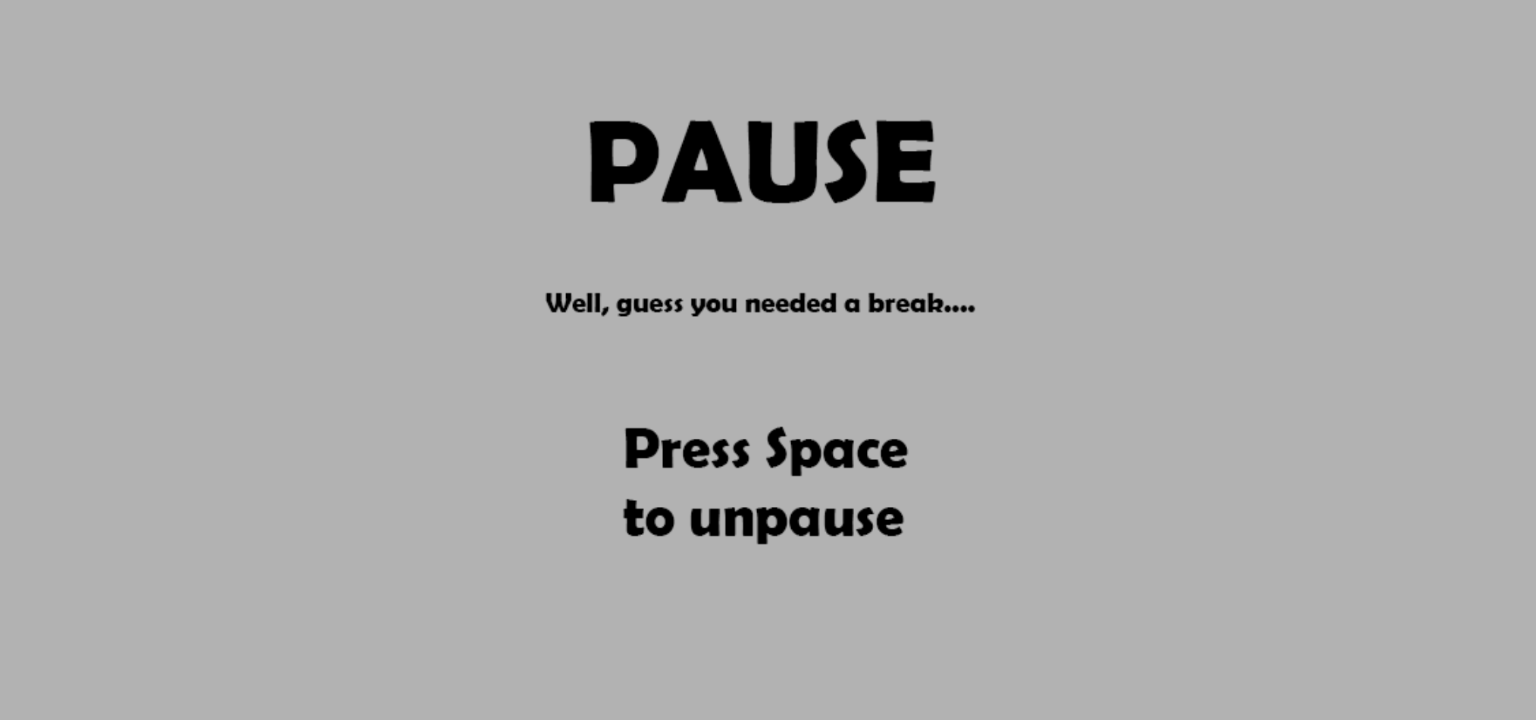
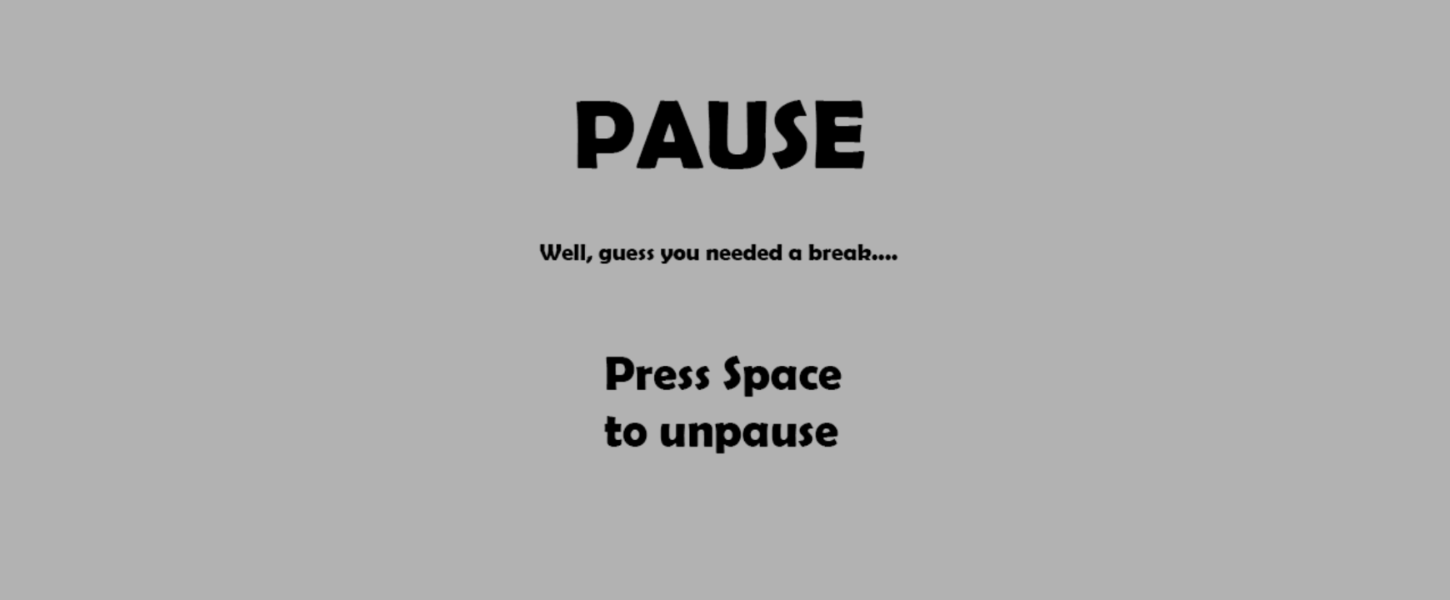
Add files via upload

diff --git a/sketch.js b/sketch.js
@@ -56,11 +56,11 @@ var logH, logHGroup;
 var hurtS;
 var pointUpS;
 var musicS;
-var lane1 = 76;
-var lane2 = 360;
-var lane3 = 654;
-var screenWidthH = width/2;
-var screenHeightH = height/2;
+var lane1 = 63;
+var lane2 = 300;
+var lane3 = 545;
+var screenWidthH = 1450/2;
+var screenHeightH = 600/2;
 
 
 function preload() {
@@ -103,49 +103,49 @@ function setup() {
   title = createSprite(screenWidthH, screenHeightH, 400, 400);
   title.addImage("titl", titleI);
 
-  aKey = createSprite(94, 240, 200, 200);
+  aKey = createSprite(91, 200, 200, 200);
   aKey.addImage("ake", aKeyI);
 
-  dKey = createSprite(298, 240, 200, 200);
+  dKey = createSprite(290, 200, 200, 200);
   dKey.addImage("dke", dKeyI);
 
   easyB = createSprite(screenWidthH, screenHeightH, 400, 400);
   easyB.addImage("eas", easyBI);
-  easyB.scale = 0.75;
+  easyB.scale = 0.55;
 
-  hardB = createSprite(screenWidthH, 600, 400, 400);
+  hardB = createSprite(screenWidthH, 500, 400, 400);
   hardB.addImage("har", hardBI);
-  hardB.scale = 0.75;
+  hardB.scale = 0.55;
 
-  mainMenu = createSprite(100,654, 200, 200);
+  mainMenu = createSprite(94,530, 200, 200);
   mainMenu.addImage("mai", mainMenuI);
   mainMenu.debug = true;
-  mainMenu.scale = 1.3;
+  mainMenu.scale = 1;
   mainMenu.setCollider("rectangle", 0, 10, 190, 90);
 
   pauseScreen = createSprite(screenWidthH, screenHeightH, 400, 400);
   pauseScreen.addImage("pause", pauseScreenI);
 
-  start = createSprite(screenWidthH, 480, 400, 400);
+  start = createSprite(screenWidthH, 400, 400, 400);
   start.addImage("sta", startI);
-  start.scale = 0.75
+  start.scale = 0.55;
 
-  pause = createSprite(1284, 23, 400, 400);
+  pause = createSprite(1271, 30, 400, 400);
   pause.addImage("pau", pauseI);
 
-  truck = createSprite(196, lane2, 400, 400);
+  truck = createSprite(185, lane2, 400, 400);
   truck.addImage("tru", truckI);
   truck.scale = 0.75;
   truck.setCollider("rectangle", 0, 0, 450,150);
   truck.debug = false;
 
-  next = createSprite(screenWidthH, 554, 20, 20);
+  next = createSprite(screenWidthH, 500, 20, 20);
   next.addImage("nex", nextI);
 
   tutorial = createSprite(screenWidthH, screenHeightH, 400, 400);
   tutorial.addImage("tut", tutorialI);
 
-  restart = createSprite(screenWidthH, 303, 20, 20);
+  restart = createSprite(screenWidthH, 260, 20, 20);
   restart.addImage("res", restartI);
   restart.scale = 4;
 
@@ -153,15 +153,15 @@ function setup() {
   gameover.addImage("gam", gameoverI);
   gameover.depth = -6;
   
-  heart1 = createSprite(1416,20,400,400);
+  heart1 = createSprite(1342,16,400,400);
   heart1.addImage("hear", heartI);
   heart1.scale = 0.75;
   
-  heart2 = createSprite(1461,20,400,400);
+  heart2 = createSprite(1380,16,400,400);
   heart2.addImage("hear", heartI);
   heart2.scale = 0.75;
   
-  heart3 = createSprite(1506,20,400,400);
+  heart3 = createSprite(1420,16,400,400);
   heart3.addImage("hear", heartI);
   heart3.scale = 0.75;
 
@@ -702,7 +702,7 @@ function spawnTraffic() {
     var ro = Math.round(random(1, 3));
     traffic = createSprite(1600, 0, 20, 20);
     traffic.addImage("tra", trafficI);
-    traffic.scale = 1;
+    traffic.scale = 0.75;
     if (ro === 1) {
       traffic.y = lane1;
     } else if (ro === 2) {
@@ -741,6 +741,7 @@ function spawnBoxes() {
     boxp.addImage("box", boxI);
     boxp.setCollider("rectangle", 0,0,80,100);
     boxp.debug = true;
+    boxp.scale = 0.75;
 
     if(diffuculty === "normal") {
       boxp.velocityX = (-20 - (3*score / 5));
@@ -810,17 +811,17 @@ function spawnCoin() {
 
   function spawnLog(){
     if (frameCount % 180 === 0 && score > 10) {
-      var rl = Math.round(random(1, 4));
+      var rl = Math.round(random(1, 2));
       log = createSprite(1540, 0, 20, 20);
       log.addImage("log", logI);
       log.setCollider("rectangle", 0, 0, 50, 450);
       log.depth = truck.depth-1;
-      log.scale = 1.5;
+      log.scale = 1;
       logH = createSprite(1540, 0, 10, 10);
       logH.setCollider("rectangle", 0, 0, 50, 1500);
       logH.visible = false;
       logH.depth = log.depth-1;
-      logH.scale = 1.5;
+      logH.scale = 1;
   
   
       if (diffuculty === "normal") {
@@ -845,17 +846,11 @@ function spawnCoin() {
       logGroup.add(log);
       obstacleGroup.add(log);
       if (rl === 1) {
-        log.y = 270;
-        logH.y = 270;
+        log.y = 100;
+        logH.y = 100;
       } else if (rl === 2) {
-        log.y = 725;
-        logH.y = 725;
-      } else if (rl === 3) {
-        log.y = 270;
-        logH.y = 270;
-      } else if (rl === 4) {
-        log.y = 725;
-        logH.y = 725;
+        log.y = 500;
+        logH.y = 500;
       }
       logH.lifetime = 100;
       logHGroup.add(logH);
